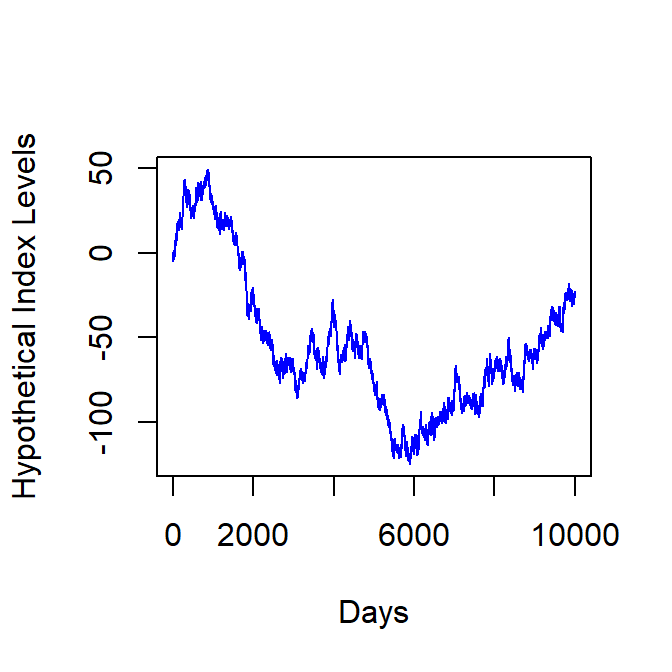
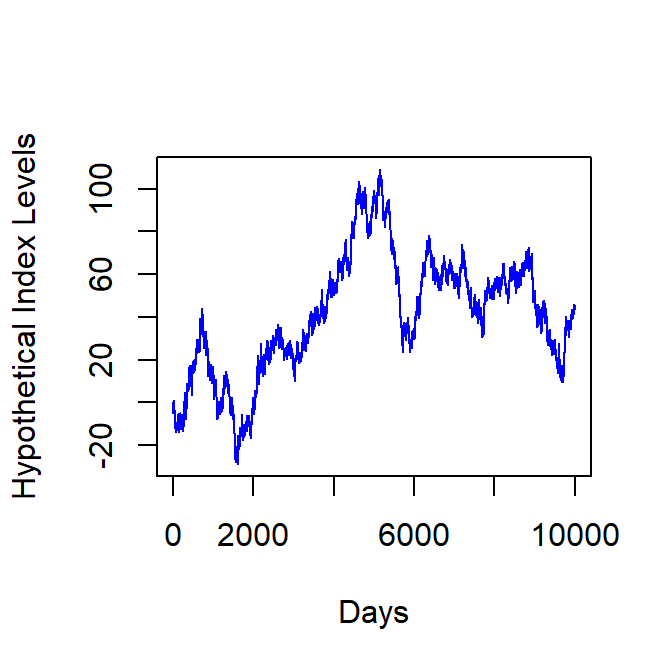
adding more time series

diff --git a/_book/introduction-to-basic-r.html b/_book/introduction-to-basic-r.html
@@ -398,7 +398,7 @@ code span.wa { color: #60a0b0; font-weight: bold; font-style: italic; } /* Warni
 <span id="cb36-4"><a href="introduction-to-basic-r.html#cb36-4" aria-hidden="true" tabindex="-1"></a>                 )</span>
 <span id="cb36-5"><a href="introduction-to-basic-r.html#cb36-5" aria-hidden="true" tabindex="-1"></a></span>
 <span id="cb36-6"><a href="introduction-to-basic-r.html#cb36-6" aria-hidden="true" tabindex="-1"></a>df<span class="sc">$</span>a <span class="sc">%&gt;%</span> <span class="fu">head</span>()</span></code></pre></div>
-<pre><code>## [1] 0.7962160 0.8256270 0.8806768 0.5027571 0.7302074 0.3600830</code></pre>
+<pre><code>## [1] 0.6869448 0.1693236 0.5423545 0.9421526 0.7592550 0.8610232</code></pre>
 <div class="sourceCode" id="cb38"><pre class="sourceCode r"><code class="sourceCode r"><span id="cb38-1"><a href="introduction-to-basic-r.html#cb38-1" aria-hidden="true" tabindex="-1"></a><span class="fu">names</span>(df)</span></code></pre></div>
 <pre><code>## [1] &quot;a&quot; &quot;b&quot; &quot;c&quot;</code></pre>
 </div>
@@ -406,35 +406,40 @@ code span.wa { color: #60a0b0; font-weight: bold; font-style: italic; } /* Warni
 <h3><span class="header-section-number">2.4.7</span> Subsetting Dataframes</h3>
 <p>If we need only part of a dataframe, we can refer to the relevant indices in square brackets appended to the name of the dataframe. Leaving an index blank includes all entries.</p>
 <div class="sourceCode" id="cb40"><pre class="sourceCode r"><code class="sourceCode r"><span id="cb40-1"><a href="introduction-to-basic-r.html#cb40-1" aria-hidden="true" tabindex="-1"></a>df[, <span class="dv">1</span>] <span class="sc">%&gt;%</span> <span class="fu">head</span>() <span class="co">#column 1</span></span></code></pre></div>
-<pre><code>## [1] 0.7962160 0.8256270 0.8806768 0.5027571 0.7302074 0.3600830</code></pre>
+<pre><code>## [1] 0.6869448 0.1693236 0.5423545 0.9421526 0.7592550 0.8610232</code></pre>
 <div class="sourceCode" id="cb42"><pre class="sourceCode r"><code class="sourceCode r"><span id="cb42-1"><a href="introduction-to-basic-r.html#cb42-1" aria-hidden="true" tabindex="-1"></a>df[<span class="dv">3</span>, ] <span class="sc">%&gt;%</span> <span class="fu">head</span>() <span class="co">#row 3</span></span></code></pre></div>
 <pre><code>##           a         b  c
-## 3 0.8806768 -1.254443 13</code></pre>
+## 3 0.5423545 -2.075364 13</code></pre>
 <div class="sourceCode" id="cb44"><pre class="sourceCode r"><code class="sourceCode r"><span id="cb44-1"><a href="introduction-to-basic-r.html#cb44-1" aria-hidden="true" tabindex="-1"></a>df[<span class="fu">c</span>(<span class="dv">1</span>,<span class="dv">2</span>), <span class="st">&quot;c&quot;</span>]</span></code></pre></div>
 <pre><code>## [1] 11 12</code></pre>
 <p><strong>Subsetting with Logical Indices</strong></p>
 <div class="sourceCode" id="cb46"><pre class="sourceCode r"><code class="sourceCode r"><span id="cb46-1"><a href="introduction-to-basic-r.html#cb46-1" aria-hidden="true" tabindex="-1"></a>df[df<span class="sc">$</span>b <span class="sc">&lt;</span> <span class="fl">0.5</span>, ] <span class="co">#only those rows whose column b has values &lt; 0.5</span></span></code></pre></div>
 <pre><code>##            a          b  c
-## 1  0.7962160 -0.4358187 11
-## 3  0.8806768 -1.2544429 13
-## 6  0.3600830 -0.7157370 16
-## 7  0.9840496 -0.4980695 17
-## 10 0.1356141 -0.3081540 20</code></pre>
+## 1  0.6869448 -1.3862900 11
+## 2  0.1693236 -0.7558863 12
+## 3  0.5423545 -2.0753637 13
+## 4  0.9421526 -1.4420419 14
+## 5  0.7592550  0.3675191 15
+## 6  0.8610232 -0.5955198 16
+## 7  0.2387585 -0.4763817 17
+## 8  0.5800371 -1.7426393 18
+## 9  0.3185291 -0.7606365 19
+## 10 0.2363959 -0.0674493 20</code></pre>
 <p><strong>Subsetting and Assignment</strong></p>
 <div class="sourceCode" id="cb48"><pre class="sourceCode r"><code class="sourceCode r"><span id="cb48-1"><a href="introduction-to-basic-r.html#cb48-1" aria-hidden="true" tabindex="-1"></a>df[df<span class="sc">$</span>c <span class="sc">&gt;=</span> <span class="dv">14</span>, <span class="st">&quot;a&quot;</span>] <span class="ot">&lt;-</span> <span class="cn">NA</span></span>
 <span id="cb48-2"><a href="introduction-to-basic-r.html#cb48-2" aria-hidden="true" tabindex="-1"></a></span>
 <span id="cb48-3"><a href="introduction-to-basic-r.html#cb48-3" aria-hidden="true" tabindex="-1"></a>df</span></code></pre></div>
 <pre><code>##            a          b  c
-## 1  0.7962160 -0.4358187 11
-## 2  0.8256270  0.7694979 12
-## 3  0.8806768 -1.2544429 13
-## 4         NA  1.0808217 14
-## 5         NA  1.2710286 15
-## 6         NA -0.7157370 16
-## 7         NA -0.4980695 17
-## 8         NA  3.1910734 18
-## 9         NA  0.6673823 19
-## 10        NA -0.3081540 20</code></pre>
+## 1  0.6869448 -1.3862900 11
+## 2  0.1693236 -0.7558863 12
+## 3  0.5423545 -2.0753637 13
+## 4         NA -1.4420419 14
+## 5         NA  0.3675191 15
+## 6         NA -0.5955198 16
+## 7         NA -0.4763817 17
+## 8         NA -1.7426393 18
+## 9         NA -0.7606365 19
+## 10        NA -0.0674493 20</code></pre>
 </div>
 </div>
 <div id="functions" class="section level2" number="2.5">
@@ -457,12 +462,11 @@ code span.wa { color: #60a0b0; font-weight: bold; font-style: italic; } /* Warni
 <span id="cb51-6"><a href="introduction-to-basic-r.html#cb51-6" aria-hidden="true" tabindex="-1"></a>}</span>
 <span id="cb51-7"><a href="introduction-to-basic-r.html#cb51-7" aria-hidden="true" tabindex="-1"></a></span>
 <span id="cb51-8"><a href="introduction-to-basic-r.html#cb51-8" aria-hidden="true" tabindex="-1"></a><span class="fu">norm_std</span>(t_1, <span class="dv">5</span>, <span class="dv">10</span>) <span class="sc">%&gt;%</span> <span class="fu">head</span>(.) <span class="co">#what does this mean?</span></span></code></pre></div>
-<pre><code>## [1]  2.6600539 -0.7709417 -1.6094629  0.1946189  0.5406417  0.7344608</code></pre>
+<pre><code>## [1] -1.0050458 -1.3685015  1.2261746  0.5854495  0.4948335  1.5100481</code></pre>
 <div class="sourceCode" id="cb53"><pre class="sourceCode r"><code class="sourceCode r"><span id="cb53-1"><a href="introduction-to-basic-r.html#cb53-1" aria-hidden="true" tabindex="-1"></a><span class="fu">norm_std</span>(t_2, <span class="dv">10</span>, <span class="dv">100</span>) <span class="sc">%&gt;%</span> <span class="fu">head</span>(.)</span></code></pre></div>
-<pre><code>## [1] -0.6732682556  0.9066280680  2.4150492120 -3.3811156614 -0.0006845677
-## [6]  0.0406820311</code></pre>
+<pre><code>## [1]  1.09038640 -1.45222791 -0.31702943  0.23362880  0.02600798  0.47265498</code></pre>
 <div class="sourceCode" id="cb55"><pre class="sourceCode r"><code class="sourceCode r"><span id="cb55-1"><a href="introduction-to-basic-r.html#cb55-1" aria-hidden="true" tabindex="-1"></a><span class="fu">norm_std</span>(t_3, <span class="dv">20</span>, <span class="dv">200</span>) <span class="sc">%&gt;%</span> <span class="fu">head</span>(.)</span></code></pre></div>
-<pre><code>## [1]  1.9888906 -0.4136522  0.4595195  0.8467714  0.2944065  1.4520311</code></pre>
+<pre><code>## [1] -0.8346108  0.4106750 -1.1592631  0.6575659 -1.2196177 -1.0160243</code></pre>
 </div>
 <div id="directory-management" class="section level2" number="2.6">
 <h2><span class="header-section-number">2.6</span> Directory Management</h2>

diff --git a/_book/introduction-to-arma-garch-processes.html b/_book/introduction-to-arma-garch-processes.html
@@ -715,7 +715,7 @@ Also, <span class="math inline">\(\text{var}(r_t) =\gamma_0= (1+\theta_1^2)\sigm
 ## 4    50    212660            0
 ## 
 ## 
-## Elapsed time : 0.218045</code></pre>
+## Elapsed time : 0.220928</code></pre>
 <!-- We can also fit standard $T$ innovations instead of normal innovations: -->
 <!-- ```{r BSE_fit_ARMA_GARCH_T} -->
 <!-- # Specify an ARMA(1,1) GARCH model with T innovations.  -->
